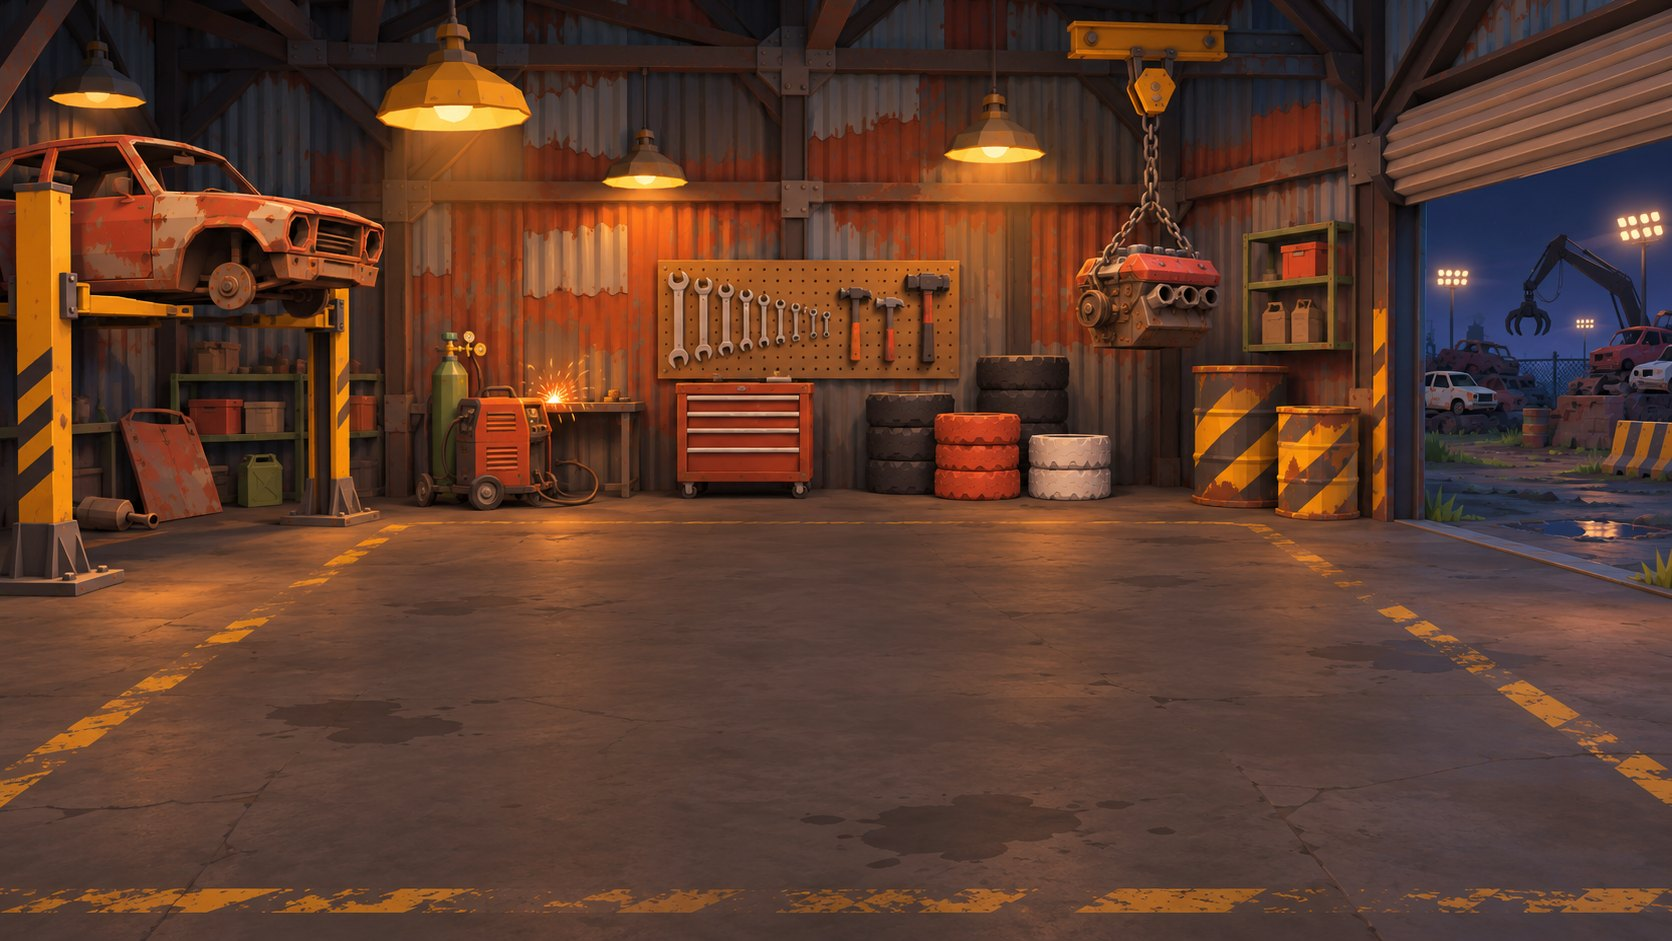
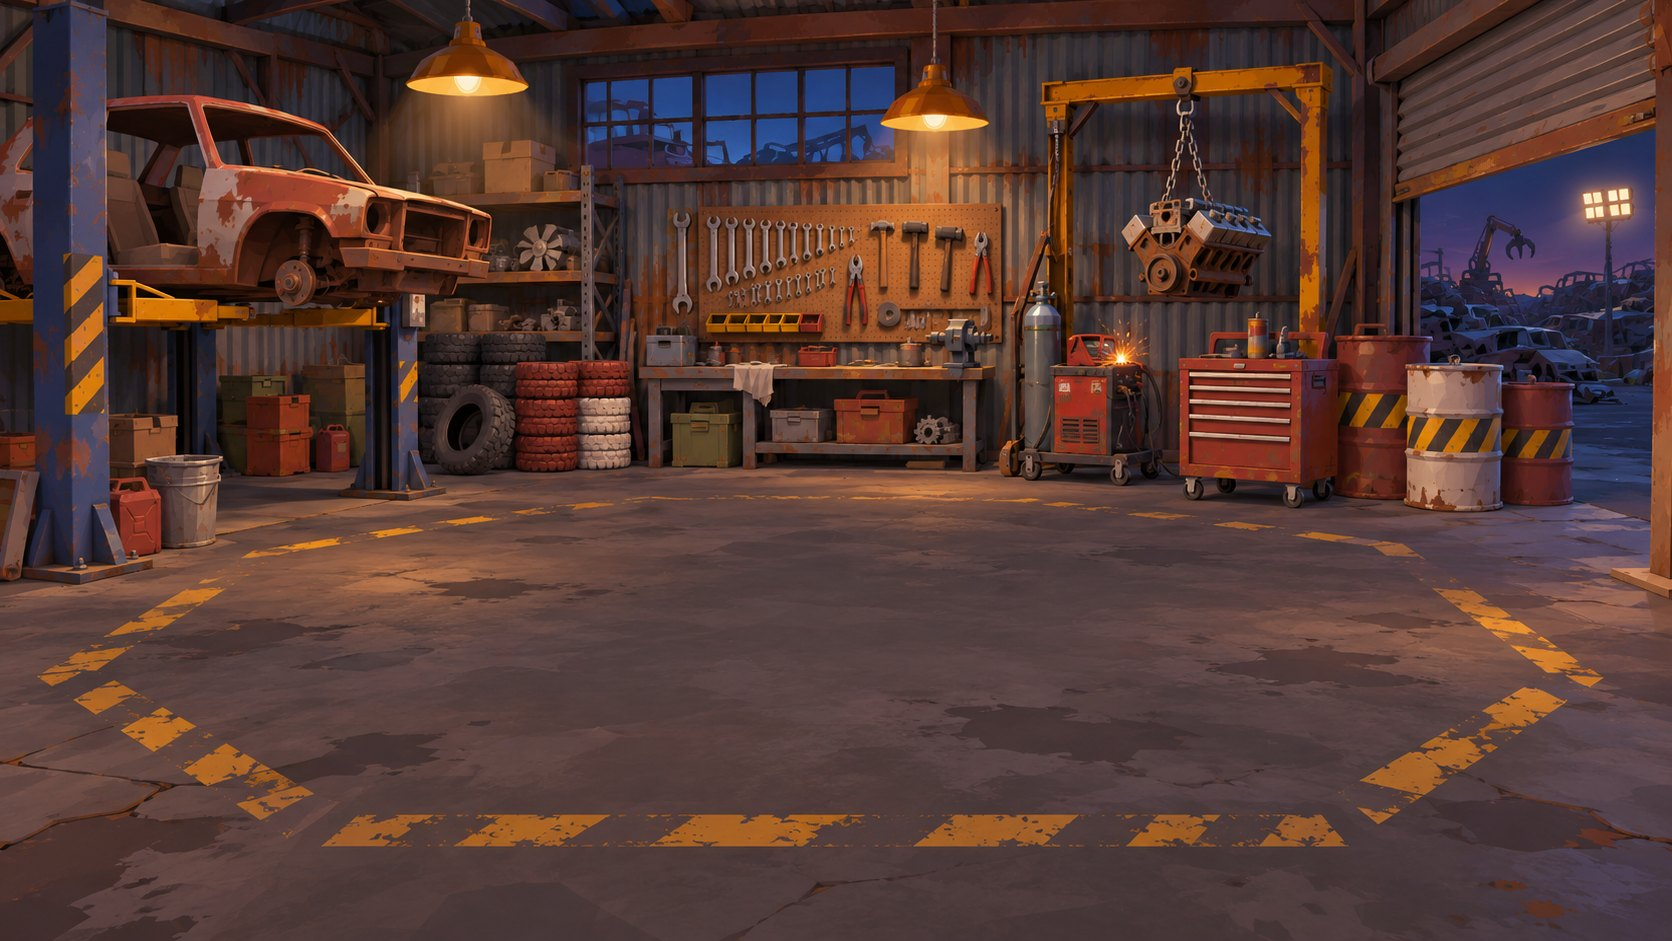
Garage: drop the corner views/swoop; the car simply spins in the middle of the new garage backdrop
Claude-Session: https://claude.ai/code/session_01WJpr1xJfMj7kEPSM4LYWfd

diff --git a/src/ui.js b/src/ui.js
@@ -1,7 +1,7 @@
 // DOM side: loading screen, language picker, menus, garage, game over, HUD, floating numbers.
 import { G, CRANE, START_T, OPTS, saveOpts, quitLap, PUMP_RESERVE, price, lvlOf, targetLvl, tierOf, nameOf, descOf, buy, reroll, toggleLock, nextWave, fmt, fmtL, repair, repairCost } from './game.js';
 import { CARS, PART, SLOTS, ALL_SLOTS, TAGC, PACKS, WSTAT } from './data.js';
-import { garageView, garageSet, garageFrame, garageBack } from './scene.js';
+import { garageView, garageSet, garageFrame } from './scene.js';
 import { t, L } from './i18n.js';
 import { A } from './assets.js';
 
@@ -151,8 +151,7 @@ function bpView(view) {
 // The garage shows your car as a live 3D model on a turntable (scene.js garageView) instead of the old drawings:
 // every fitted part is on it, a slot grid underneath lists what's where (hover for details), and hovering a part
 // for sale previews it fitted on the car with its slot outlined.
-let gHover = null, gLoop = false, gBack = false;
-const BACK_SLOTS = ['rear', 'trunk', 'turret2'], FRONT_SLOTS = ['front', 'hood'];
+let gHover = null, gLoop = false;
 function slotChip(slot) {
   const b = G.build[slot], on = b ? ' on' : '';
   const tip = b ? `<span class="tip"><b>${esc(partName(b.id))} · Lv ${b.lvl}/${PART[b.id].max}</b><span>${esc(partDescAt(b.id, b.lvl))}</span><i style="color:${TAGC[PART[b.id].tag]}">${esc(L().tags[PART[b.id].tag])}</i></span>` : '';
@@ -161,10 +160,9 @@ function slotChip(slot) {
 function renderBlueprint() {
   const id = G.P.car.id;
   if (!$('bpCanvas')) {
-    $('blueprint').innerHTML = `<div class="bptitle" id="bpTitle"></div><div class="slotgrid" id="slotGrid"></div><div class="bp3d"><canvas id="bpCanvas" aria-label="3D"></canvas><button class="btn alt viewbtn" id="bpView" type="button"></button><div class="bpprev" id="bpPrev"></div></div>`;
+    $('blueprint').innerHTML = `<div class="bptitle" id="bpTitle"></div><div class="slotgrid" id="slotGrid"></div><div class="bp3d"><canvas id="bpCanvas" aria-label="3D"></canvas><div class="bpprev" id="bpPrev"></div></div>`;
     $('slotGrid').addEventListener('pointerover', ev => { const c = ev.target.closest('.chip'); gHover = c && G.build[c.dataset.slot] ? { slot: c.dataset.slot } : null });
     $('slotGrid').addEventListener('pointerleave', () => { gHover = null });
-    $('bpView').onclick = () => { gBack = !gBack };
   }
   set($('bpTitle'), `${L().cars[id][0]} (${YEAR[id] || 1984})`); 
   $('slotGrid').innerHTML = ALL_SLOTS.map(slotChip).join('');
@@ -174,9 +172,6 @@ function renderBlueprint() {
     const build = { ...G.build }; let hl = gHover && gHover.slot, prev = '';
     if (gHover && gHover.item) { const it = gHover.item, d = PART[it.id]; build[d.slot] = { id: it.id, lvl: targetLvl(it) }; hl = d.slot; prev = t('previewing', { x: nameOf(it), n: targetLvl(it) }) }
     set($('bpPrev'), prev);
-    // look from the back for parts on the back of the car, from the front for front parts, else where you chose
-    const back = hl && BACK_SLOTS.includes(hl) ? true : hl && FRONT_SLOTS.includes(hl) ? false : gBack;
-    garageBack(back); set($('bpView'), back ? t('viewFront') : t('viewBack')); $('gbg').classList.toggle('back', back); // the backdrop swoops to the other side of the garage too
     garageSet(build, hl); garageFrame(Math.min(.05, (now - last) / 1000)); last = now; requestAnimationFrame(tick) };
     requestAnimationFrame(tick) }
 }
@@ -209,12 +204,7 @@ export function openShop() {
   // painted garage art if there is one, else the arena art, dimmed so the cards stay readable
   const bg = A.garageBg || A.menuBg;
   // the garage art stays visible (lighter in the middle, darker at the edges and under the button bar)
-  // two backdrop layers: this side of the garage and the other side (its own art, or this one mirrored until it exists)
-  if (bg) {
-    $('gbgF').style.backgroundImage = `url(${bg.src})`;
-    $('gbgB').style.backgroundImage = `url(${(A.garageBgBack || bg).src})`; $('gbgB').style.setProperty('--flip', A.garageBgBack ? 1 : -1);
-    $('gbg').classList.toggle('dim', !A.garageBg);
-  }
+  if (bg) { $('gbgF').style.backgroundImage = `url(${bg.src})`; $('gbg').classList.toggle('dim', !A.garageBg) }
   renderShop(); show('shop');
 }
 

diff --git a/src/scene.js b/src/scene.js
@@ -1130,14 +1130,11 @@ export function portraits(cars) {
   return out;
 }
 
-/* ---------- garage turntable ----------
+/* ---------- garage car ----------
    A live 3D preview of your car in the garage, built with the same buildCar/partMesh as in the game, so every fitted
    part (and its level) shows. It sits on a slowly turning platform under a work lamp; drag to spin it. Hovering a
    part for sale previews it fitted (at the level you'd get), and the hovered slot gets a yellow outline. */
 let gp = null;
-const GARAGE_AZ = [-.62, Math.PI - .62]; // front-left corner, and the diagonally opposite rear-right corner
-// switching corners is a 1.2 s swoop: the camera arcs round the car, rising and pulling back mid-way
-export function garageBack(on) { if (!gp) return; const w = GARAGE_AZ[on ? 1 : 0]; if (gp.want !== w) { gp.from = gp.az; gp.want = w; gp.t = 0 } }
 export function garageView(canvas) {
   if (gp && gp.canvas === canvas) return gp;
   const r = new THREE.WebGLRenderer({ canvas, antialias: true, alpha: true });
@@ -1152,9 +1149,8 @@ export function garageView(canvas) {
   const pivot = new THREE.Group(); plat.add(pivot);
   const cam = new THREE.PerspectiveCamera(26, 1.6, 1, 2000);
   const box = new THREE.Box3Helper(new THREE.Box3(), 0xffc23d); box.visible = false; sc.add(box);
-  // two fixed camera corners: front three-quarter (nose to the right, like the menu art) and the opposite corner
-  // for the back; the camera swings between them
-  gp = { canvas, r, sc, cam, plat, pivot, box, car: null, sig: '', az: GARAGE_AZ[0], want: GARAGE_AZ[0], from: GARAGE_AZ[0], t: 1, hl: null, w: 0, h: 0 };
+  // the car slowly spins on the spot in the middle of the garage floor
+  gp = { canvas, r, sc, cam, plat, pivot, box, car: null, sig: '', rot: .6, hl: null, w: 0, h: 0 };
   return gp;
 }
 // build = { slot: { id, lvl } }; rebuilt only when it changes
@@ -1177,12 +1173,9 @@ export function garageFrame(dt) {
   const { canvas, r, cam } = gp, w = canvas.clientWidth, h = canvas.clientHeight;
   if (!w || !h) return;
   if (w !== gp.w || h !== gp.h) { gp.w = w; gp.h = h; r.setSize(w, h, false); cam.aspect = w / h; cam.updateProjectionMatrix() }
-  gp.t = Math.min(1, gp.t + dt / 1.2);
-  const k = gp.t < .5 ? 4 * gp.t ** 3 : 1 - (-2 * gp.t + 2) ** 3 / 2, arc = Math.sin(Math.PI * gp.t); // ease in-out, and a bump mid-swoop
-  gp.az = gp.from + (gp.want - gp.from) * k;
-  // the car stands forward on the floor (low in the frame), seen from about eye level like the backdrop
-  const dist = 228 / Math.min(1, cam.aspect / 1.3) * (1 + .18 * arc), sway = Math.sin(performance.now() / 2600) * .025;
-  cam.position.set(Math.cos(gp.az + sway) * dist, dist * (.27 + .2 * arc), Math.sin(gp.az + sway) * dist); cam.lookAt(0, 36 - 10 * arc, 0);
+  gp.rot += dt * .45; gp.pivot.rotation.y = gp.rot; // slow spin, about one turn every 14 s
+  const dist = 228 / Math.min(1, cam.aspect / 1.3);
+  cam.position.set(0, dist * .27, dist); cam.lookAt(0, 36, 0); // eye level, aimed above the car so it stands low on the floor
   if (gp.car) for (const b of gp.car.blades || []) b.rotation.y += dt * 8;
   const parts = gp.hl && gp.car ? gp.car.partsG.children.filter(c => c.userData.slot === gp.hl) : [];
   if (parts.length) { gp.box.box.makeEmpty(); for (const p of parts) gp.box.box.expandByObject(p); gp.box.box.expandByScalar(1.5); gp.box.visible = !gp.box.box.isEmpty(); gp.box.material.opacity = .6 + .4 * Math.sin(performance.now() / 160) } else gp.box.visible = false;

diff --git a/index.html b/index.html
@@ -383,7 +383,6 @@ kbd{font:700 12px Inter,sans-serif;background:rgba(255,255,255,.12);border-radiu
 .showroom{min-width:0;display:flex;flex-direction:column;align-self:stretch;min-height:0}
 .bp3d{position:relative;width:100%;flex:1 1 auto;min-height:220px;overflow:visible} /* no frame: the car stands on the garage floor of the backdrop */
 .bp3d canvas{position:absolute;inset:-6% -8% -4%;width:116%;height:110%;display:block}
-.viewbtn{position:absolute;left:50%;bottom:6px;transform:translateX(-50%);z-index:2;min-height:38px;padding:6px 16px;font-size:14px;background:rgba(30,31,36,.82);backdrop-filter:blur(4px)}
 .bptitle{position:absolute;left:4px;top:0;display:block;margin:0;padding:0;border:0;background:none;z-index:1;font:800 clamp(16px,1.6vw,22px) Rubik,sans-serif;color:#efe3c8;text-shadow:0 2px 6px rgba(0,0,0,.6);pointer-events:none}
 .bpprev{position:absolute;right:14px;top:14px;font:800 12px Rubik,sans-serif;letter-spacing:.06em;color:#1d1b1a;background:#ffc23d;border-radius:8px;padding:4px 9px;pointer-events:none}.bpprev:empty{display:none}
 .slotgrid{display:grid;grid-template-columns:repeat(4,minmax(0,1fr));gap:8px;margin-top:10px}
@@ -391,15 +390,12 @@ kbd{font:700 12px Inter,sans-serif;background:rgba(255,255,255,.12);border-radiu
 .slotgrid .chip .tip{top:auto;bottom:calc(100% + 8px)}
 @media(max-width:1200px){.slotgrid{grid-template-columns:repeat(2,minmax(0,1fr))}}
 @media(max-height:800px){.slotgrid{gap:6px;margin-top:8px}.slotgrid .chip{padding:4px 8px 4px 4px}}
-/* garage backdrop layers: switching to the back view slides this side out and the other side in (with the 3D swoop) */
+/* garage backdrop (its own layer so the dimming sits between it and the panels) */
 #shop .gbg{position:absolute;inset:0;width:auto;z-index:0;overflow:hidden;pointer-events:none}
 #shop>*:not(.gbg){position:relative;z-index:1}
-.gbg i{position:absolute;inset:-3%;background:center/cover no-repeat;--flip:1;transition:transform 1.2s cubic-bezier(.65,0,.35,1),opacity 1.2s ease-in-out}
-#gbgF{transform:none;opacity:1}#gbgB{transform:translateX(22%) scale(1.15) scaleX(var(--flip));opacity:0}
-.gbg.back #gbgF{transform:translateX(-22%) scale(1.15);opacity:0}.gbg.back #gbgB{transform:scaleX(var(--flip));opacity:1}
+.gbg i{position:absolute;inset:0;background:center/cover no-repeat}
 .gbg b{position:absolute;inset:0;background:radial-gradient(ellipse 75% 70% at 50% 45%,rgba(20,21,25,.38),rgba(20,21,25,.78)),linear-gradient(transparent 70%,rgba(20,21,25,.7))}
 .gbg.dim b{background:linear-gradient(rgba(20,21,25,.86),rgba(20,21,25,.94))}
-@media(prefers-reduced-motion:reduce){.gbg i{transition:opacity .4s}}
 /* centre column: name, slot grid, then the car standing forward on the floor down to the button bar */
 .slotgrid{margin:6px 0 0}.slotgrid .chip .tip{top:calc(100% + 8px);bottom:auto}
 .bp3d canvas{inset:-4% -10% 0;width:120%;height:104%;pointer-events:none}
@@ -457,7 +453,7 @@ kbd{font:700 12px Inter,sans-serif;background:rgba(255,255,255,.12);border-radiu
   </div>
 
   <div class="ov hide" id="shop">
-    <div class="gbg" id="gbg" aria-hidden="true"><i id="gbgF"></i><i id="gbgB"></i><b></b></div>
+    <div class="gbg" id="gbg" aria-hidden="true"><i id="gbgF"></i><b></b></div>
     <div class="shophead"><h2 id="shopTitle">Garage</h2><span class="scrapct" id="shopScrap">0</span></div>
     <div class="garage">
       <section class="col">

diff --git a/src/i18n.js b/src/i18n.js
@@ -48,7 +48,7 @@ const T = {
     bpViews: { side: "Zijaanzicht", top: "Bovenaanzicht" }, slots: {"turret": "Koepel (vaste)", "turret2": "Tweede koepel", "roof": "Dak", "hood": "Motorkap", "front": "Voorbarsjok", "rear": "Achterbarsjok", "trunk": "Koffer", "sides": "Zijkanten"},
     packs: {"britland": ["Britland", "De Mini Cooper en den Engelsen taxi. Thee drinken mag.", ["Mini Cooper", "Londense taxi"]], "f1": ["Da rappe wè", "Ne Formule 1 en de Safety Car. Stief rap, stief broos.", ["Formule 1", "Safety Car"]]},
     forSale: "Te koop",
-    blueprint: "Je otto", viewBack: "Bekijk de bachtekant", viewFront: "Bekijk de veurkant", previewing: "Proberen: {x} (Lv {n})",
+    blueprint: "Je otto", previewing: "Proberen: {x} (Lv {n})",
     empty: "Leeg",
     replaces: "Vervangt {x}",
     upTo: "Nor Lv {n}",

diff --git a/src/assets.js b/src/assets.js
@@ -23,7 +23,6 @@ export async function loadAssets(onProgress = () => { }) {
     img('assets/ground-dirt.jpg').then(i => A.dirt = i),
     img('assets/loading-bg.jpg').then(i => A.menuBg = i), // the menu uses the loading screen's art
     img('assets/garage-bg.jpg').then(i => A.garageBg = i),
-    img('assets/garage-bg-back.jpg').then(i => A.garageBgBack = i), // the other side of the garage (back view)
     img('assets/fx/fire-trail.png').then(i => { if (i) A.fx.fire = i }),
     img('assets/obstacles/hay-side.jpg').then(i => { if (i) A.obs.side = i }),
     img('assets/obstacles/hay-top.png').then(i => { if (i) A.obs.top = i }),

diff --git a/ART_PROMPTS.md b/ART_PROMPTS.md
@@ -21,7 +21,7 @@ no text, no logos, no brand badges.
 
 | Already in the game | Still missing (prompts below) |
 |---|---|
-| Logo, loading/menu art, arena dirt, pack banners, both garage backdrops | |
+| Logo, loading/menu art, arena dirt, pack banners, garage backdrop | |
 | Menu renders of all 7 cars (`cars/`, cut out automatically) | |
 | Skins for Zwerfotto, Roestbak, Lijkotto | Skins for the 4 enemy types, 3 bosses and 4 pack cars |
 | All 25 part icons, HUD icons, fuel gauge + needle, pump icon, pump pad, jerrycan | Gauge-cluster faces (`cluster-speedo`, `cluster-nitro`) |
@@ -44,20 +44,6 @@ chain, a half-stripped rusty car on a lift at the left. A rolled-up garage door 
 and floodlights outside. Warm hanging work lamps make pools of yellow light, the rest is in cool blue-grey shadow.
 The centre is a darker, calm stretch of oil-stained concrete floor with faded yellow hazard lines, because a 3D car
 turntable and interface panels sit on top. No people, no cars in the foreground, wide 16:9.
-```
-
-```text
-=== assets/garage-bg-back.jpg · 2560×1440 (16:9) · the OTHER side of the same garage (back view of the car) ===
-STYLE + The same cluttered scrapyard workshop at night as garage-bg.jpg, but seen from the opposite end: the camera
-has turned around 180 degrees and looks at the wall that was behind the viewer. Same eye-level camera height, same
-warm hanging work lamps and blue-grey shadows, same oil-stained concrete floor with faded yellow hazard bay lines
-running towards the viewer, so the two images feel like one room. On this side: the big rolled-up garage door is now
-at the LEFT edge, showing the dusky junkyard and floodlights outside; the yellow hydraulic car lift with its
-hazard-striped posts is at the RIGHT edge. The back wall has a dirty office window with a dim desk lamp behind it, a
-workbench with a vice and a grinder, a rack of scrap bumpers and doors, a tall shelf with jerrycans and spray cans, a
-parts washer, a calendar-free notice board with blank papers, coiled air hoses and an old arcade-style vending machine.
-The centre of the floor is open and calm (a car stands there in the game). No people, no cars in the foreground,
-no text, no logos, wide 16:9.
 ```
 
 ## 2. Part icons (garage cards and slot chips)
